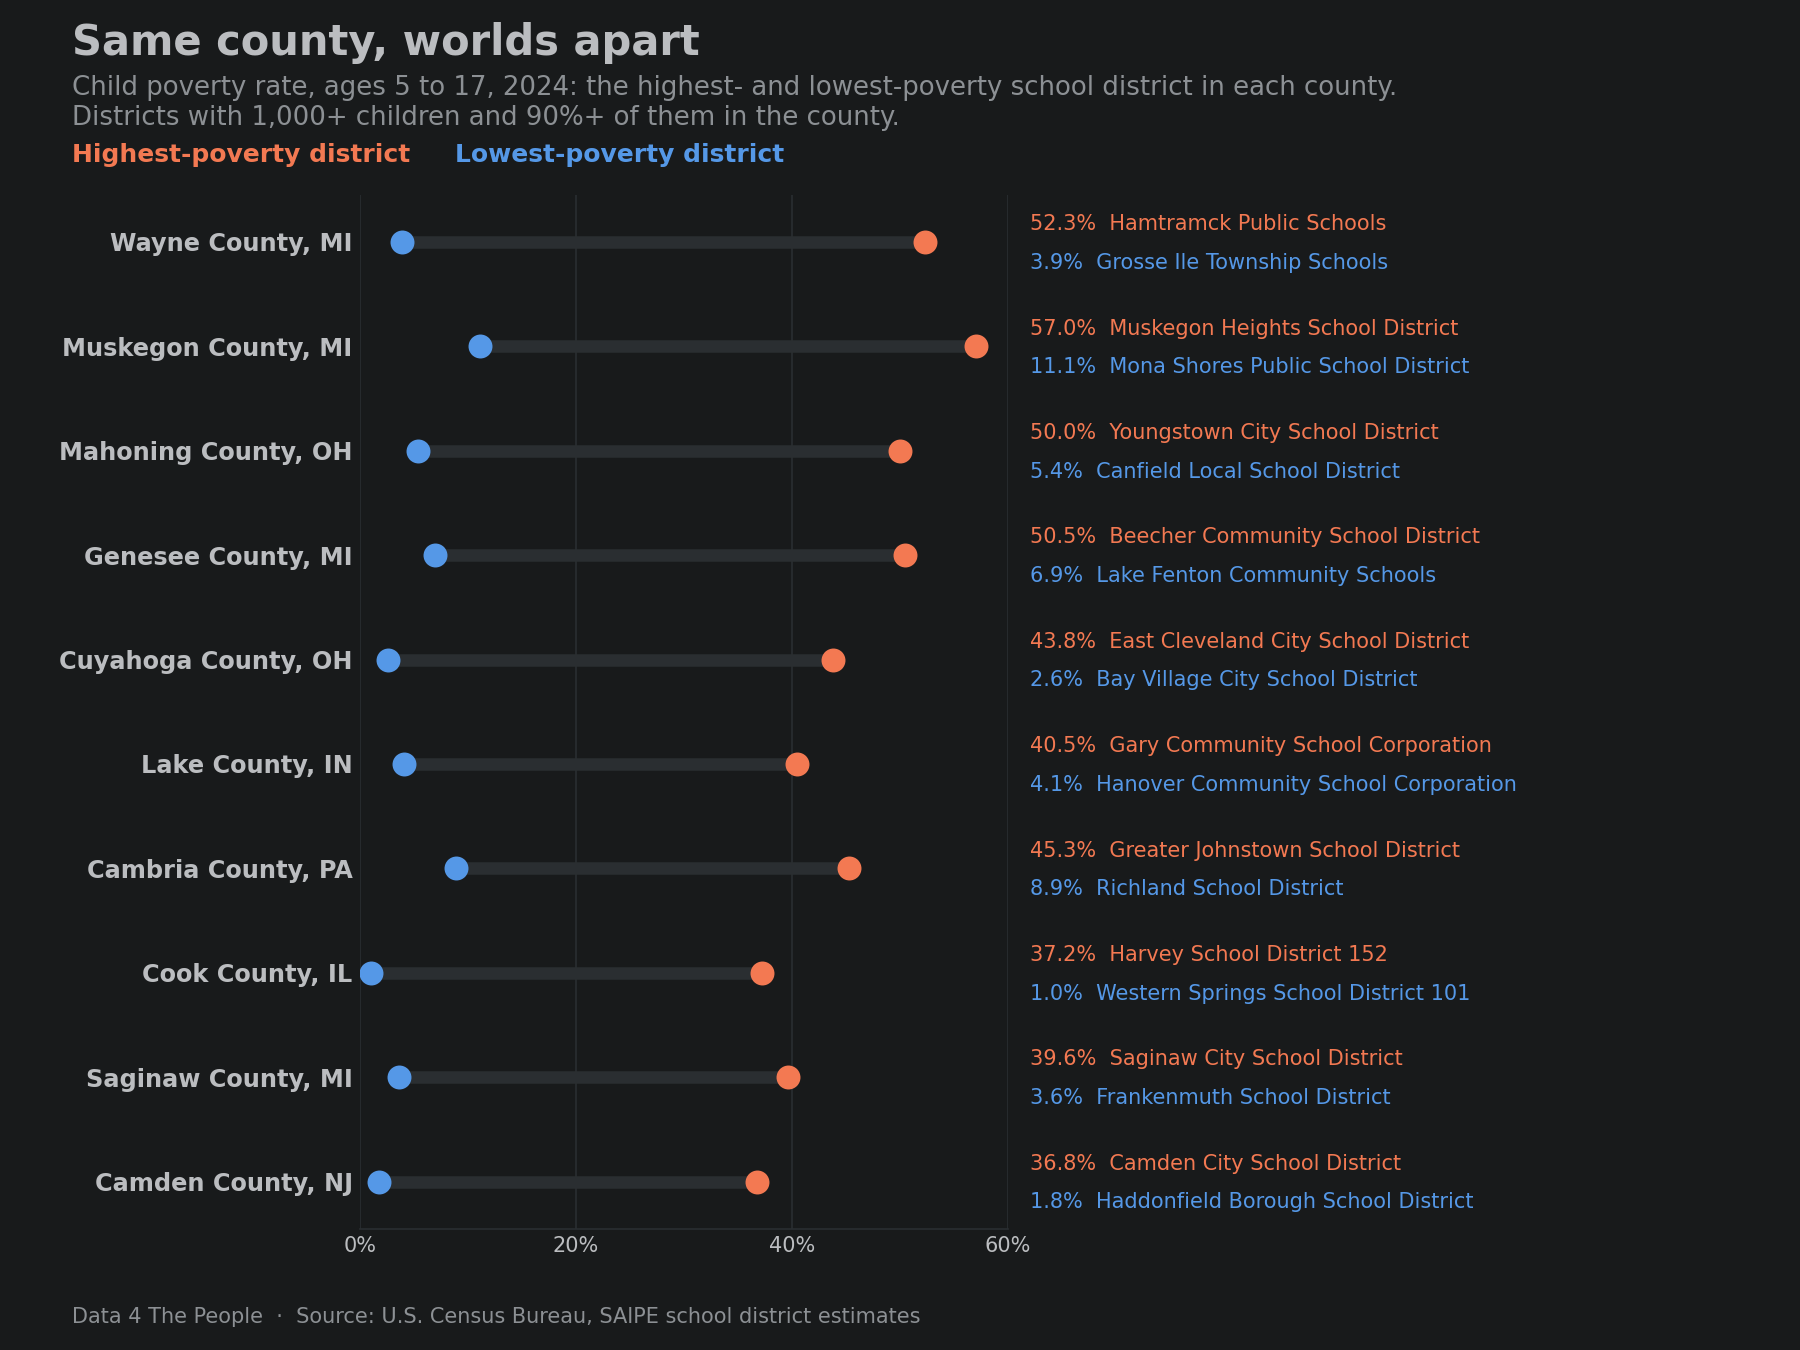
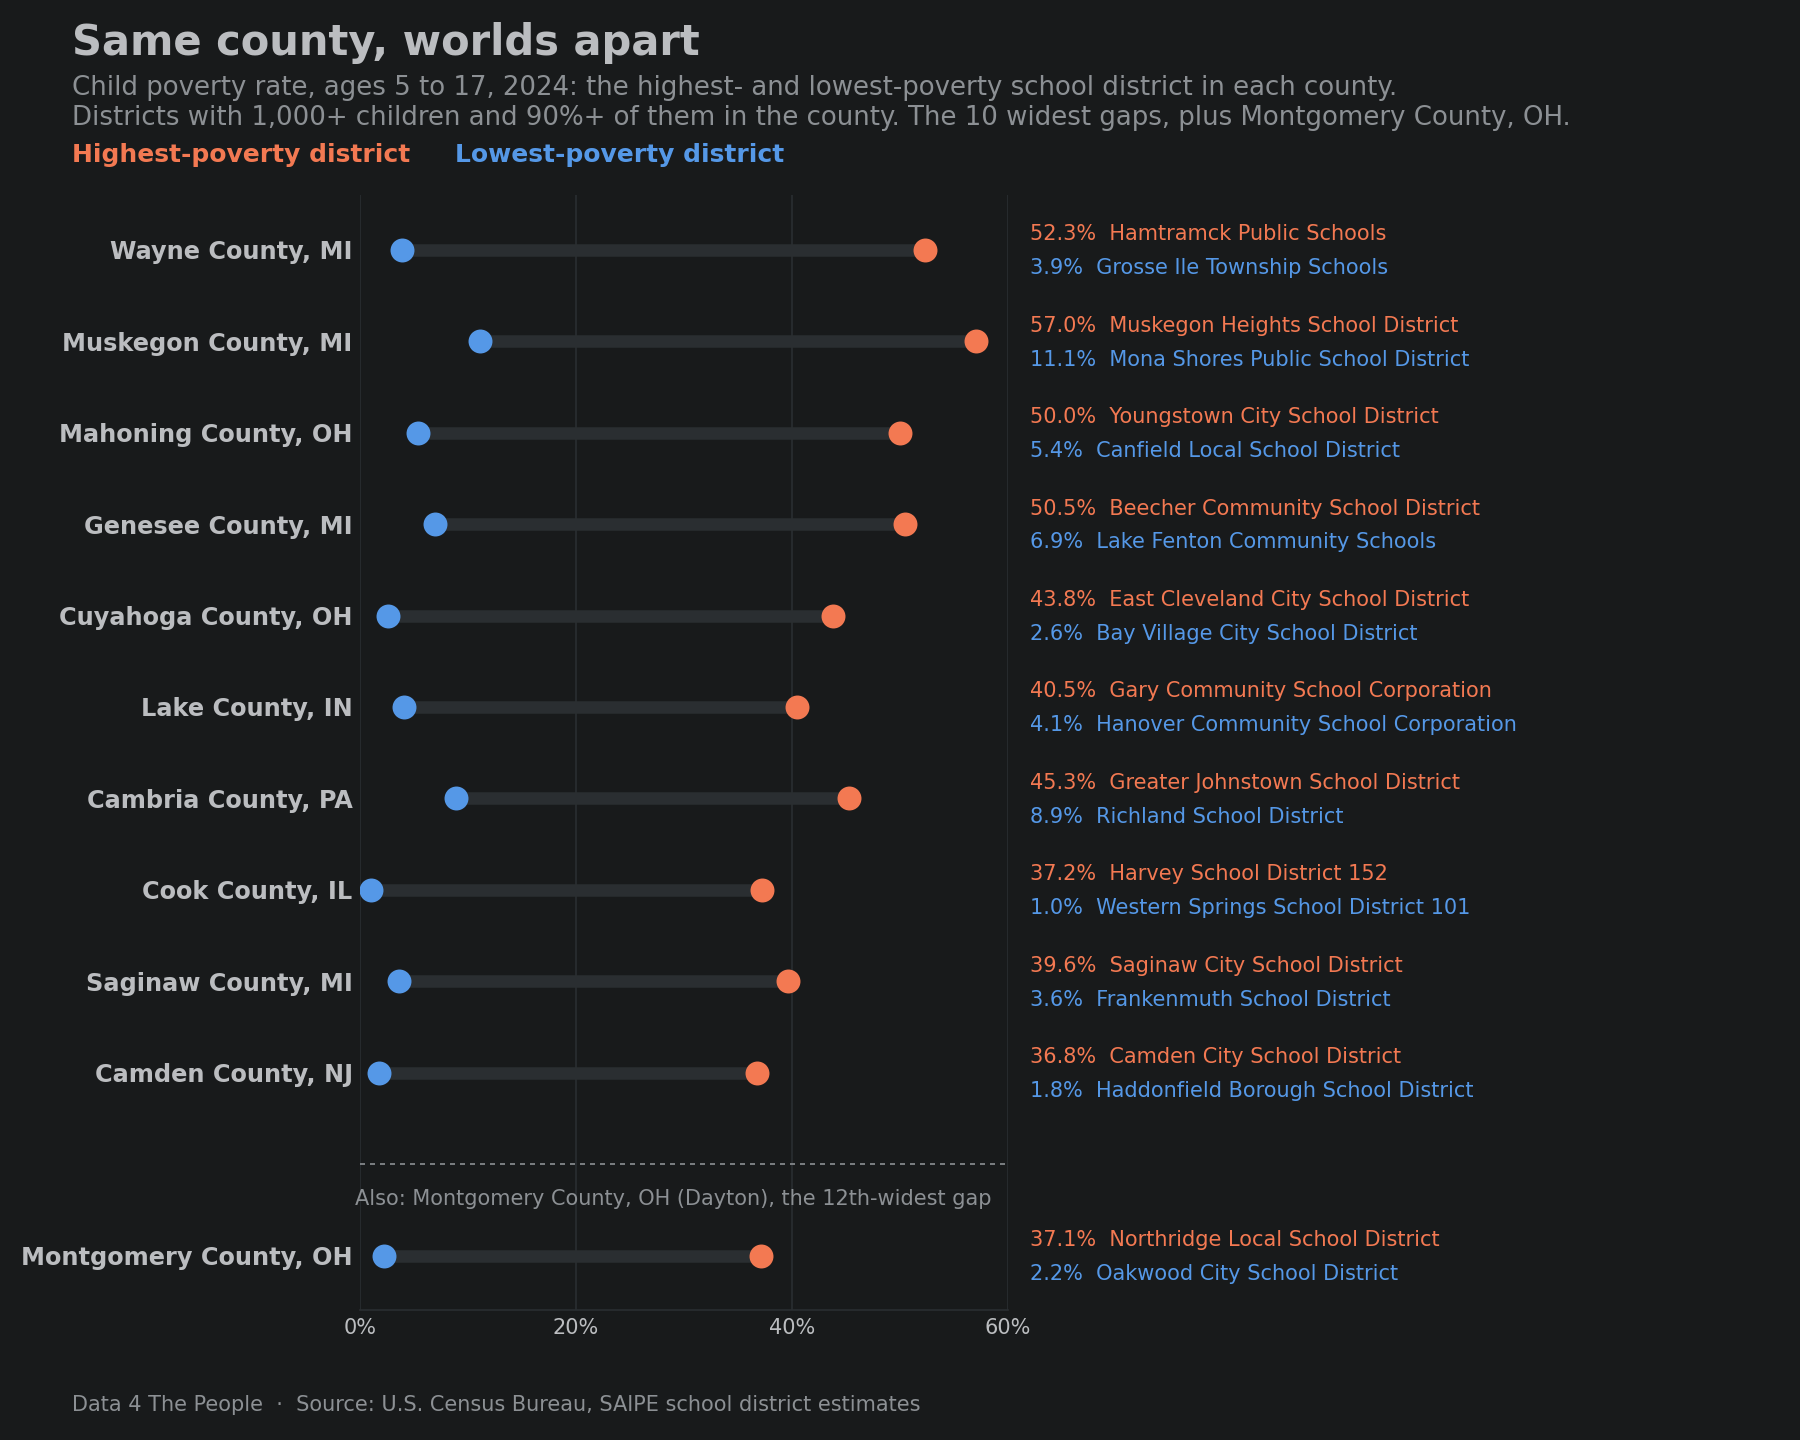
six-takeaways-child-poverty: Montgomery County, OH row on chart 1

diff --git a/scripts/14_takeaways.py b/scripts/14_takeaways.py
@@ -81,25 +81,33 @@ def pooled():
 
 # 1. Same county, worlds apart
 def t1():
-    g = pd.read_csv(PROC / "takeaway1_county_gaps.csv").head(10).iloc[::-1]
-    f, top = fig("Same county, worlds apart",
-                 "Child poverty rate, ages 5 to 17, 2024: the highest- and lowest-poverty school district in each county.\n"
-                 "Districts with 1,000+ children and 90%+ of them in the county.", h=9,
-                 legend=[("Highest-poverty district", CORAL), ("Lowest-poverty district", BLUE)])
-    ax = f.add_axes([0.20, 0.09, 0.36, top - 0.09])
-    y = np.arange(len(g))
+    allg = pd.read_csv(PROC / "takeaway1_county_gaps.csv")
+    top = allg.head(10)
+    extra = allg[allg.county == "Montgomery County, OH"]   # Dayton, set apart below the top 10 (Eric's county)
+    assert len(extra) == 1
+    rank = int(allg.index[allg.county == "Montgomery County, OH"][0]) + 1
+    g = pd.concat([extra, top.iloc[::-1]]).reset_index(drop=True)   # row 0 (bottom) = Montgomery; widest gap at the top
+    f, top_y = fig("Same county, worlds apart",
+                   "Child poverty rate, ages 5 to 17, 2024: the highest- and lowest-poverty school district in each county.\n"
+                   "Districts with 1,000+ children and 90%+ of them in the county. The 10 widest gaps, plus Montgomery County, OH.", h=9.6,
+                   legend=[("Highest-poverty district", CORAL), ("Lowest-poverty district", BLUE)])
+    ax = f.add_axes([0.20, 0.09, 0.36, top_y - 0.09])
+    y = np.array([0] + [i + 1.0 for i in range(1, len(g))], dtype=float)   # extra gap below the top 10
     ax.hlines(y, g.lo_rate, g.hi_rate, color=GRID, lw=6, zorder=1)
     ax.scatter(g.hi_rate, y, s=110, color=CORAL, zorder=3)
     ax.scatter(g.lo_rate, y, s=110, color=BLUE, zorder=3)
+    ax.axhline(1.0, color=MUTED, lw=0.8, ls=(0, (3, 3)))
     ax.set_yticks(y)
     ax.set_yticklabels(g.county, fontsize=11.5, fontweight="bold")
+    ax.set_ylim(-0.6, y[-1] + 0.6)
     ax.set_xlim(0, 60)
     ax.set_xticks([0, 20, 40, 60])
     ax.set_xticklabels(["0%", "20%", "40%", "60%"])
     ax.grid(axis="x", color=GRID)
-    for i, r in enumerate(g.itertuples()):
-        ax.text(62, i + 0.17, f"{r.hi_rate:.1f}%  {r.high}", va="center", fontsize=10, color=CORAL, clip_on=False)
-        ax.text(62, i - 0.2, f"{r.lo_rate:.1f}%  {r.low}", va="center", fontsize=10, color=BLUE, clip_on=False)
+    for yy, r in zip(y, g.itertuples()):
+        ax.text(62, yy + 0.17, f"{r.hi_rate:.1f}%  {r.high}", va="center", fontsize=10, color=CORAL, clip_on=False)
+        ax.text(62, yy - 0.2, f"{r.lo_rate:.1f}%  {r.low}", va="center", fontsize=10, color=BLUE, clip_on=False)
+    ax.text(-0.5, 0.62, f"Also: Montgomery County, OH (Dayton), the {rank}th-widest gap", fontsize=10, color=MUTED, va="center")
     finish(f, ax, "01-same-county-worlds-apart.png")
 
 

diff --git a/posts/six-takeaways-child-poverty/POST.md b/posts/six-takeaways-child-poverty/POST.md
@@ -19,13 +19,13 @@ dividers: false
 
 # Child poverty by school district: six takeaways
 
-On Wednesday we rebuilt our [map of child poverty by school district](https://www.data4thepeople.com/p/children-poverty-viz/), which shows the share of school-age children in poverty in every U.S. school district for every year from 2005 to 2024. Here are six things it shows. All of them use the official poverty line, and the sixth takeaway shows what that line leaves out.
+On Wednesday we rebuilt our [map of child poverty by school district](https://www.data4thepeople.com/p/children-poverty-viz/), which shows the share of school-age children in poverty in every U.S. school district for every year from 2005 to 2024. Here are six of our key takeaways from studying our new and imporved tool.
 
 ## 1. Next-door districts can be worlds apart
 
 The national rate is one number: 14.4% of children ages 5 to 17 lived in families in poverty in 2024. Inside a single county, the rate can run from a few percent to more than half. The chart below shows the 10 counties with the widest gap between their highest- and lowest-poverty school districts.
 
-![Dot chart titled Same county, worlds apart, 2024. For each of 10 counties, a coral dot marks the highest-poverty school district and a blue dot the lowest. Wayne County, MI: Hamtramck 52.3% and Grosse Ile 3.9%. Muskegon County, MI: Muskegon Heights 57.0% and Mona Shores 11.1%. Mahoning County, OH: Youngstown 50.0% and Canfield 5.4%. Cuyahoga County, OH: East Cleveland 43.8% and Bay Village 2.6%. Camden County, NJ: Camden 36.8% and Haddonfield 1.8%.](images/01-same-county-worlds-apart.png)
+![Dot chart titled Same county, worlds apart, 2024. For the 10 counties with the widest gap, a coral dot marks the highest-poverty school district and a blue dot the lowest. Wayne County, MI: Hamtramck 52.3% and Grosse Ile 3.9%. Muskegon County, MI: Muskegon Heights 57.0% and Mona Shores 11.1%. Mahoning County, OH: Youngstown 50.0% and Canfield 5.4%. Below a dotted line, Montgomery County, OH, home to Dayton and the 12th-widest gap: Northridge 37.1% and Oakwood 2.2%](images/01-same-county-worlds-apart.png)
 
 Eight of the 10 counties are in Michigan, Ohio, Indiana and Illinois. In most of them, the highest-poverty district is an older city or inner suburb, and the lowest-poverty district is a suburb in the same county. In Montgomery County, OH, home to Dayton, Northridge Local School District is at 37.1% and Oakwood City School District is at 2.2%.
 
@@ -73,7 +73,7 @@ Our [labor force map](https://data4thepeople.github.io/laus/), built from the Bu
 
 ![Line chart titled The Delta's workforce has been shrinking for decades. Change in civilian labor force since 1990, annual average. The United States grew 35.7%, Mississippi grew 10.3%, and the 10 core Delta counties fell 38.8%, from 101,004 people in 1990 to 61,828 in 2025.](images/05b-delta-labor-force.png)
 
-Since 1990, the Delta's labor force fell 38.8% while Mississippi's grew 10.3% and the nation's grew 35.7%. Child poverty and a shrinking workforce are two measures of the same region. Neither one shows that it caused the other.
+Since 1990, the Delta's labor force fell 38.8% while Mississippi's grew 10.3% and the nation's grew 35.7%. Child poverty and a shrinking workforce are two measures of the same region. Neither one shows that it caused the other. Both show that America has ignored the plight of the [xx] million people living in this region
 
 ::: spacer
 

diff --git a/STATUS.md b/STATUS.md
@@ -34,3 +34,4 @@ None.
 - 2026-10-01 Step 1 confirmed by Eric. Step 2a opened: Claude drafts at Eric's request (as with the wage takeaways). Date placeholder Friday, October 2, 2026, 6:00 pm EDT (Eric may change).
 - 2026-10-01 2a: Claude draft of POST.md written; every number checked against the takeaway CSVs (9 of 15 increases in OH/MI/St. Louis, not 10 as first said in chat).
 - 2026-10-01 2a: slug changed to six-takeaways-child-poverty (Eric); takeaways 5 and 6 swapped (Delta now 5, just above the line now 6); chart files renamed to match.
+- 2026-10-01 2a: chart 1 adds Montgomery County, OH (Dayton, 12th-widest gap) as a set-apart row at Eric's request; Eric plans to add personal experience there in 2b.
